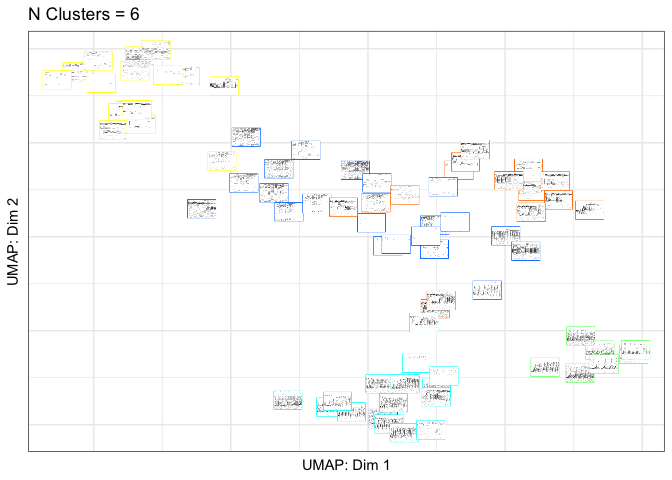
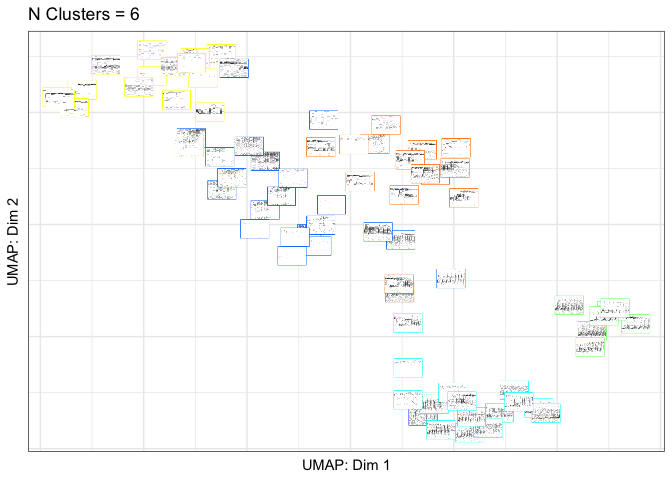
Update README.

diff --git a/README.md b/README.md
@@ -70,7 +70,7 @@ library(gibbonR)
 TrainingWavFilesDir <- 
   "/Users/denaclink/Desktop/RStudio Projects/gibbonR/data/MultipleSoundClasses/"
 
-trainingdata <- gibbonR::MFCCFunction(input.dir=TrainingWavFilesDir, min.freq = 400, max.freq = 1600,win.avg="TRUE")
+trainingdata <- gibbonR::MFCCFunction(input.dir=TrainingWavFilesDir, min.freq = 400, max.freq = 1600,win.avg='standard')
 
 trainingdata$class <- as.factor(trainingdata$class)
 ```
@@ -100,13 +100,13 @@ print(ml.model.rf)
 #>                      Number of trees: 500
 #> No. of variables tried at each split: 13
 #> 
-#>         OOB estimate of  error rate: 13.33%
+#>         OOB estimate of  error rate: 10.67%
 #> Confusion matrix:
 #>               female.gibbon leaf.monkey noise solo.gibbon class.error
 #> female.gibbon            17           0     2           1   0.1500000
 #> leaf.monkey               0          11     4           0   0.2666667
-#> noise                     0           0    18           2   0.1000000
-#> solo.gibbon               0           0     1          19   0.0500000
+#> noise                     0           0    19           1   0.0500000
+#> solo.gibbon               0           0     0          20   0.0000000
 ```
 
 # Part 2. Run the detector/classifier
@@ -167,8 +167,83 @@ library(ggpubr)
 #> The following object is masked from 'package:randomForest':
 #> 
 #>     margin
-gibbonID(input.dir="/Users/denaclink/Desktop/RStudio Projects/gibbonR/data/MultipleSoundClasses/",output.dir="/Users/denaclink/Desktop/RStudio Projects/gibbonR/data/MultipleSoundClasses/Thumbnails/",add.spectrograms=TRUE,min.freq=400,max.freq=1600,class='no.clustering')
+gibbonID(input.dir="/Users/denaclink/Desktop/RStudio Projects/gibbonR/data/MultipleSoundClasses/",output.dir="/Users/denaclink/Desktop/RStudio Projects/gibbonR/data/MultipleSoundClasses/Thumbnails/",win.avg='standard',add.spectrograms=TRUE,min.freq=400,max.freq=1600,class='no.clustering')
 #> [1] "Step 1 Calculating MFCCs"
+#> [1] "processing sound event 1 out of 75"
+#> [1] "processing sound event 2 out of 75"
+#> [1] "processing sound event 3 out of 75"
+#> [1] "processing sound event 4 out of 75"
+#> [1] "processing sound event 5 out of 75"
+#> [1] "processing sound event 6 out of 75"
+#> [1] "processing sound event 7 out of 75"
+#> [1] "processing sound event 8 out of 75"
+#> [1] "processing sound event 9 out of 75"
+#> [1] "processing sound event 10 out of 75"
+#> [1] "processing sound event 11 out of 75"
+#> [1] "processing sound event 12 out of 75"
+#> [1] "processing sound event 13 out of 75"
+#> [1] "processing sound event 14 out of 75"
+#> [1] "processing sound event 15 out of 75"
+#> [1] "processing sound event 16 out of 75"
+#> [1] "processing sound event 17 out of 75"
+#> [1] "processing sound event 18 out of 75"
+#> [1] "processing sound event 19 out of 75"
+#> [1] "processing sound event 20 out of 75"
+#> [1] "processing sound event 21 out of 75"
+#> [1] "processing sound event 22 out of 75"
+#> [1] "processing sound event 23 out of 75"
+#> [1] "processing sound event 24 out of 75"
+#> [1] "processing sound event 25 out of 75"
+#> [1] "processing sound event 26 out of 75"
+#> [1] "processing sound event 27 out of 75"
+#> [1] "processing sound event 28 out of 75"
+#> [1] "processing sound event 29 out of 75"
+#> [1] "processing sound event 30 out of 75"
+#> [1] "processing sound event 31 out of 75"
+#> [1] "processing sound event 32 out of 75"
+#> [1] "processing sound event 33 out of 75"
+#> [1] "processing sound event 34 out of 75"
+#> [1] "processing sound event 35 out of 75"
+#> [1] "processing sound event 36 out of 75"
+#> [1] "processing sound event 37 out of 75"
+#> [1] "processing sound event 38 out of 75"
+#> [1] "processing sound event 39 out of 75"
+#> [1] "processing sound event 40 out of 75"
+#> [1] "processing sound event 41 out of 75"
+#> [1] "processing sound event 42 out of 75"
+#> [1] "processing sound event 43 out of 75"
+#> [1] "processing sound event 44 out of 75"
+#> [1] "processing sound event 45 out of 75"
+#> [1] "processing sound event 46 out of 75"
+#> [1] "processing sound event 47 out of 75"
+#> [1] "processing sound event 48 out of 75"
+#> [1] "processing sound event 49 out of 75"
+#> [1] "processing sound event 50 out of 75"
+#> [1] "processing sound event 51 out of 75"
+#> [1] "processing sound event 52 out of 75"
+#> [1] "processing sound event 53 out of 75"
+#> [1] "processing sound event 54 out of 75"
+#> [1] "processing sound event 55 out of 75"
+#> [1] "processing sound event 56 out of 75"
+#> [1] "processing sound event 57 out of 75"
+#> [1] "processing sound event 58 out of 75"
+#> [1] "processing sound event 59 out of 75"
+#> [1] "processing sound event 60 out of 75"
+#> [1] "processing sound event 61 out of 75"
+#> [1] "processing sound event 62 out of 75"
+#> [1] "processing sound event 63 out of 75"
+#> [1] "processing sound event 64 out of 75"
+#> [1] "processing sound event 65 out of 75"
+#> [1] "processing sound event 66 out of 75"
+#> [1] "processing sound event 67 out of 75"
+#> [1] "processing sound event 68 out of 75"
+#> [1] "processing sound event 69 out of 75"
+#> [1] "processing sound event 70 out of 75"
+#> [1] "processing sound event 71 out of 75"
+#> [1] "processing sound event 72 out of 75"
+#> [1] "processing sound event 73 out of 75"
+#> [1] "processing sound event 74 out of 75"
+#> [1] "processing sound event 75 out of 75"
 #> [1] "Step 3 Creating Spectrograms "
 #> [1] "/Users/denaclink/Desktop/RStudio Projects/gibbonR/data/MultipleSoundClasses/Thumbnails/ already exists"
 #> [1] "Adding Spectrograms to Plot Step 3 of 3"
@@ -187,8 +262,83 @@ library(apcluster)
 #> The following object is masked from 'package:stats':
 #> 
 #>     heatmap
-gibbonID(input.dir="/Users/denaclink/Desktop/RStudio Projects/gibbonR/data/MultipleSoundClasses/",output.dir="/Users/denaclink/Desktop/RStudio Projects/gibbonR/data/MultipleSoundClasses/Thumbnails/",class='affinity.fixed', q.fixed=0.1,add.spectrograms=TRUE,min.freq=400,max.freq=1600)
+gibbonID(input.dir="/Users/denaclink/Desktop/RStudio Projects/gibbonR/data/MultipleSoundClasses/",output.dir="/Users/denaclink/Desktop/RStudio Projects/gibbonR/data/MultipleSoundClasses/Thumbnails/",win.avg='standard',class='affinity.fixed', q.fixed=0.1,add.spectrograms=TRUE,min.freq=400,max.freq=1600,)
 #> [1] "Step 1 Calculating MFCCs"
+#> [1] "processing sound event 1 out of 75"
+#> [1] "processing sound event 2 out of 75"
+#> [1] "processing sound event 3 out of 75"
+#> [1] "processing sound event 4 out of 75"
+#> [1] "processing sound event 5 out of 75"
+#> [1] "processing sound event 6 out of 75"
+#> [1] "processing sound event 7 out of 75"
+#> [1] "processing sound event 8 out of 75"
+#> [1] "processing sound event 9 out of 75"
+#> [1] "processing sound event 10 out of 75"
+#> [1] "processing sound event 11 out of 75"
+#> [1] "processing sound event 12 out of 75"
+#> [1] "processing sound event 13 out of 75"
+#> [1] "processing sound event 14 out of 75"
+#> [1] "processing sound event 15 out of 75"
+#> [1] "processing sound event 16 out of 75"
+#> [1] "processing sound event 17 out of 75"
+#> [1] "processing sound event 18 out of 75"
+#> [1] "processing sound event 19 out of 75"
+#> [1] "processing sound event 20 out of 75"
+#> [1] "processing sound event 21 out of 75"
+#> [1] "processing sound event 22 out of 75"
+#> [1] "processing sound event 23 out of 75"
+#> [1] "processing sound event 24 out of 75"
+#> [1] "processing sound event 25 out of 75"
+#> [1] "processing sound event 26 out of 75"
+#> [1] "processing sound event 27 out of 75"
+#> [1] "processing sound event 28 out of 75"
+#> [1] "processing sound event 29 out of 75"
+#> [1] "processing sound event 30 out of 75"
+#> [1] "processing sound event 31 out of 75"
+#> [1] "processing sound event 32 out of 75"
+#> [1] "processing sound event 33 out of 75"
+#> [1] "processing sound event 34 out of 75"
+#> [1] "processing sound event 35 out of 75"
+#> [1] "processing sound event 36 out of 75"
+#> [1] "processing sound event 37 out of 75"
+#> [1] "processing sound event 38 out of 75"
+#> [1] "processing sound event 39 out of 75"
+#> [1] "processing sound event 40 out of 75"
+#> [1] "processing sound event 41 out of 75"
+#> [1] "processing sound event 42 out of 75"
+#> [1] "processing sound event 43 out of 75"
+#> [1] "processing sound event 44 out of 75"
+#> [1] "processing sound event 45 out of 75"
+#> [1] "processing sound event 46 out of 75"
+#> [1] "processing sound event 47 out of 75"
+#> [1] "processing sound event 48 out of 75"
+#> [1] "processing sound event 49 out of 75"
+#> [1] "processing sound event 50 out of 75"
+#> [1] "processing sound event 51 out of 75"
+#> [1] "processing sound event 52 out of 75"
+#> [1] "processing sound event 53 out of 75"
+#> [1] "processing sound event 54 out of 75"
+#> [1] "processing sound event 55 out of 75"
+#> [1] "processing sound event 56 out of 75"
+#> [1] "processing sound event 57 out of 75"
+#> [1] "processing sound event 58 out of 75"
+#> [1] "processing sound event 59 out of 75"
+#> [1] "processing sound event 60 out of 75"
+#> [1] "processing sound event 61 out of 75"
+#> [1] "processing sound event 62 out of 75"
+#> [1] "processing sound event 63 out of 75"
+#> [1] "processing sound event 64 out of 75"
+#> [1] "processing sound event 65 out of 75"
+#> [1] "processing sound event 66 out of 75"
+#> [1] "processing sound event 67 out of 75"
+#> [1] "processing sound event 68 out of 75"
+#> [1] "processing sound event 69 out of 75"
+#> [1] "processing sound event 70 out of 75"
+#> [1] "processing sound event 71 out of 75"
+#> [1] "processing sound event 72 out of 75"
+#> [1] "processing sound event 73 out of 75"
+#> [1] "processing sound event 74 out of 75"
+#> [1] "processing sound event 75 out of 75"
 #> [1] "Step 2 Computing unsupervised clustering with fixed q"
 #> [1] "Step 3 Creating Spectrograms "
 #> [1] "/Users/denaclink/Desktop/RStudio Projects/gibbonR/data/MultipleSoundClasses/Thumbnails/ already exists"
